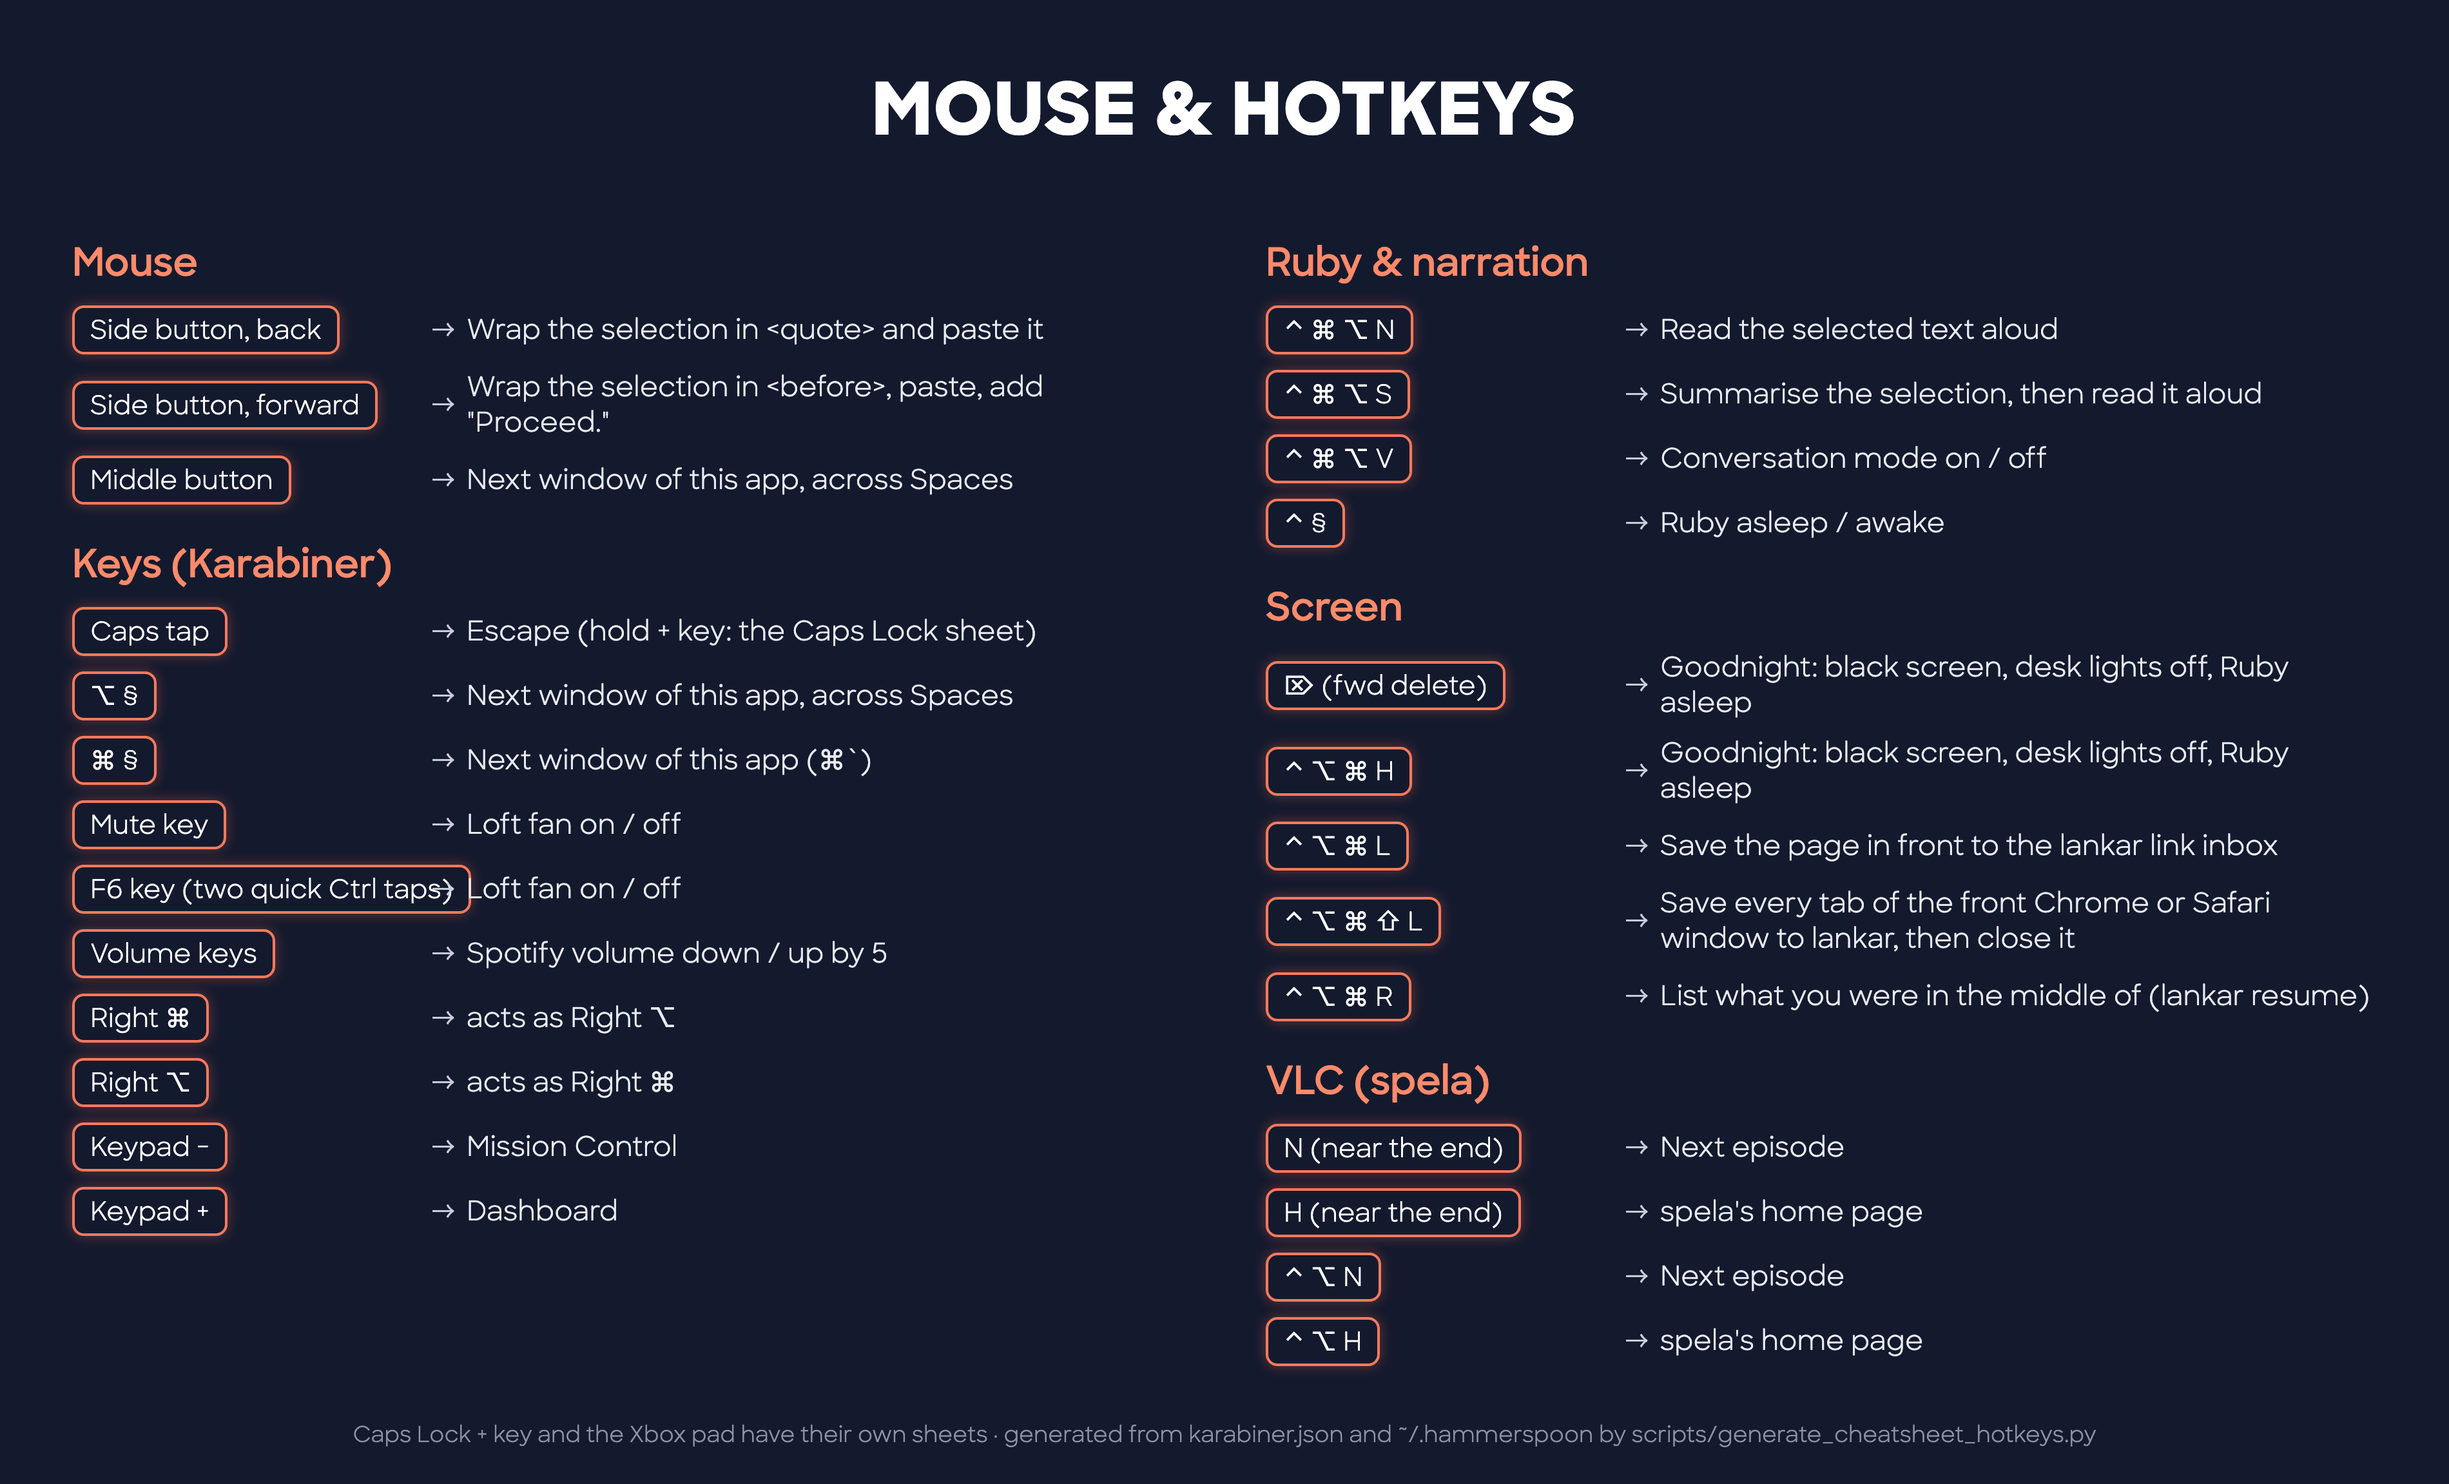
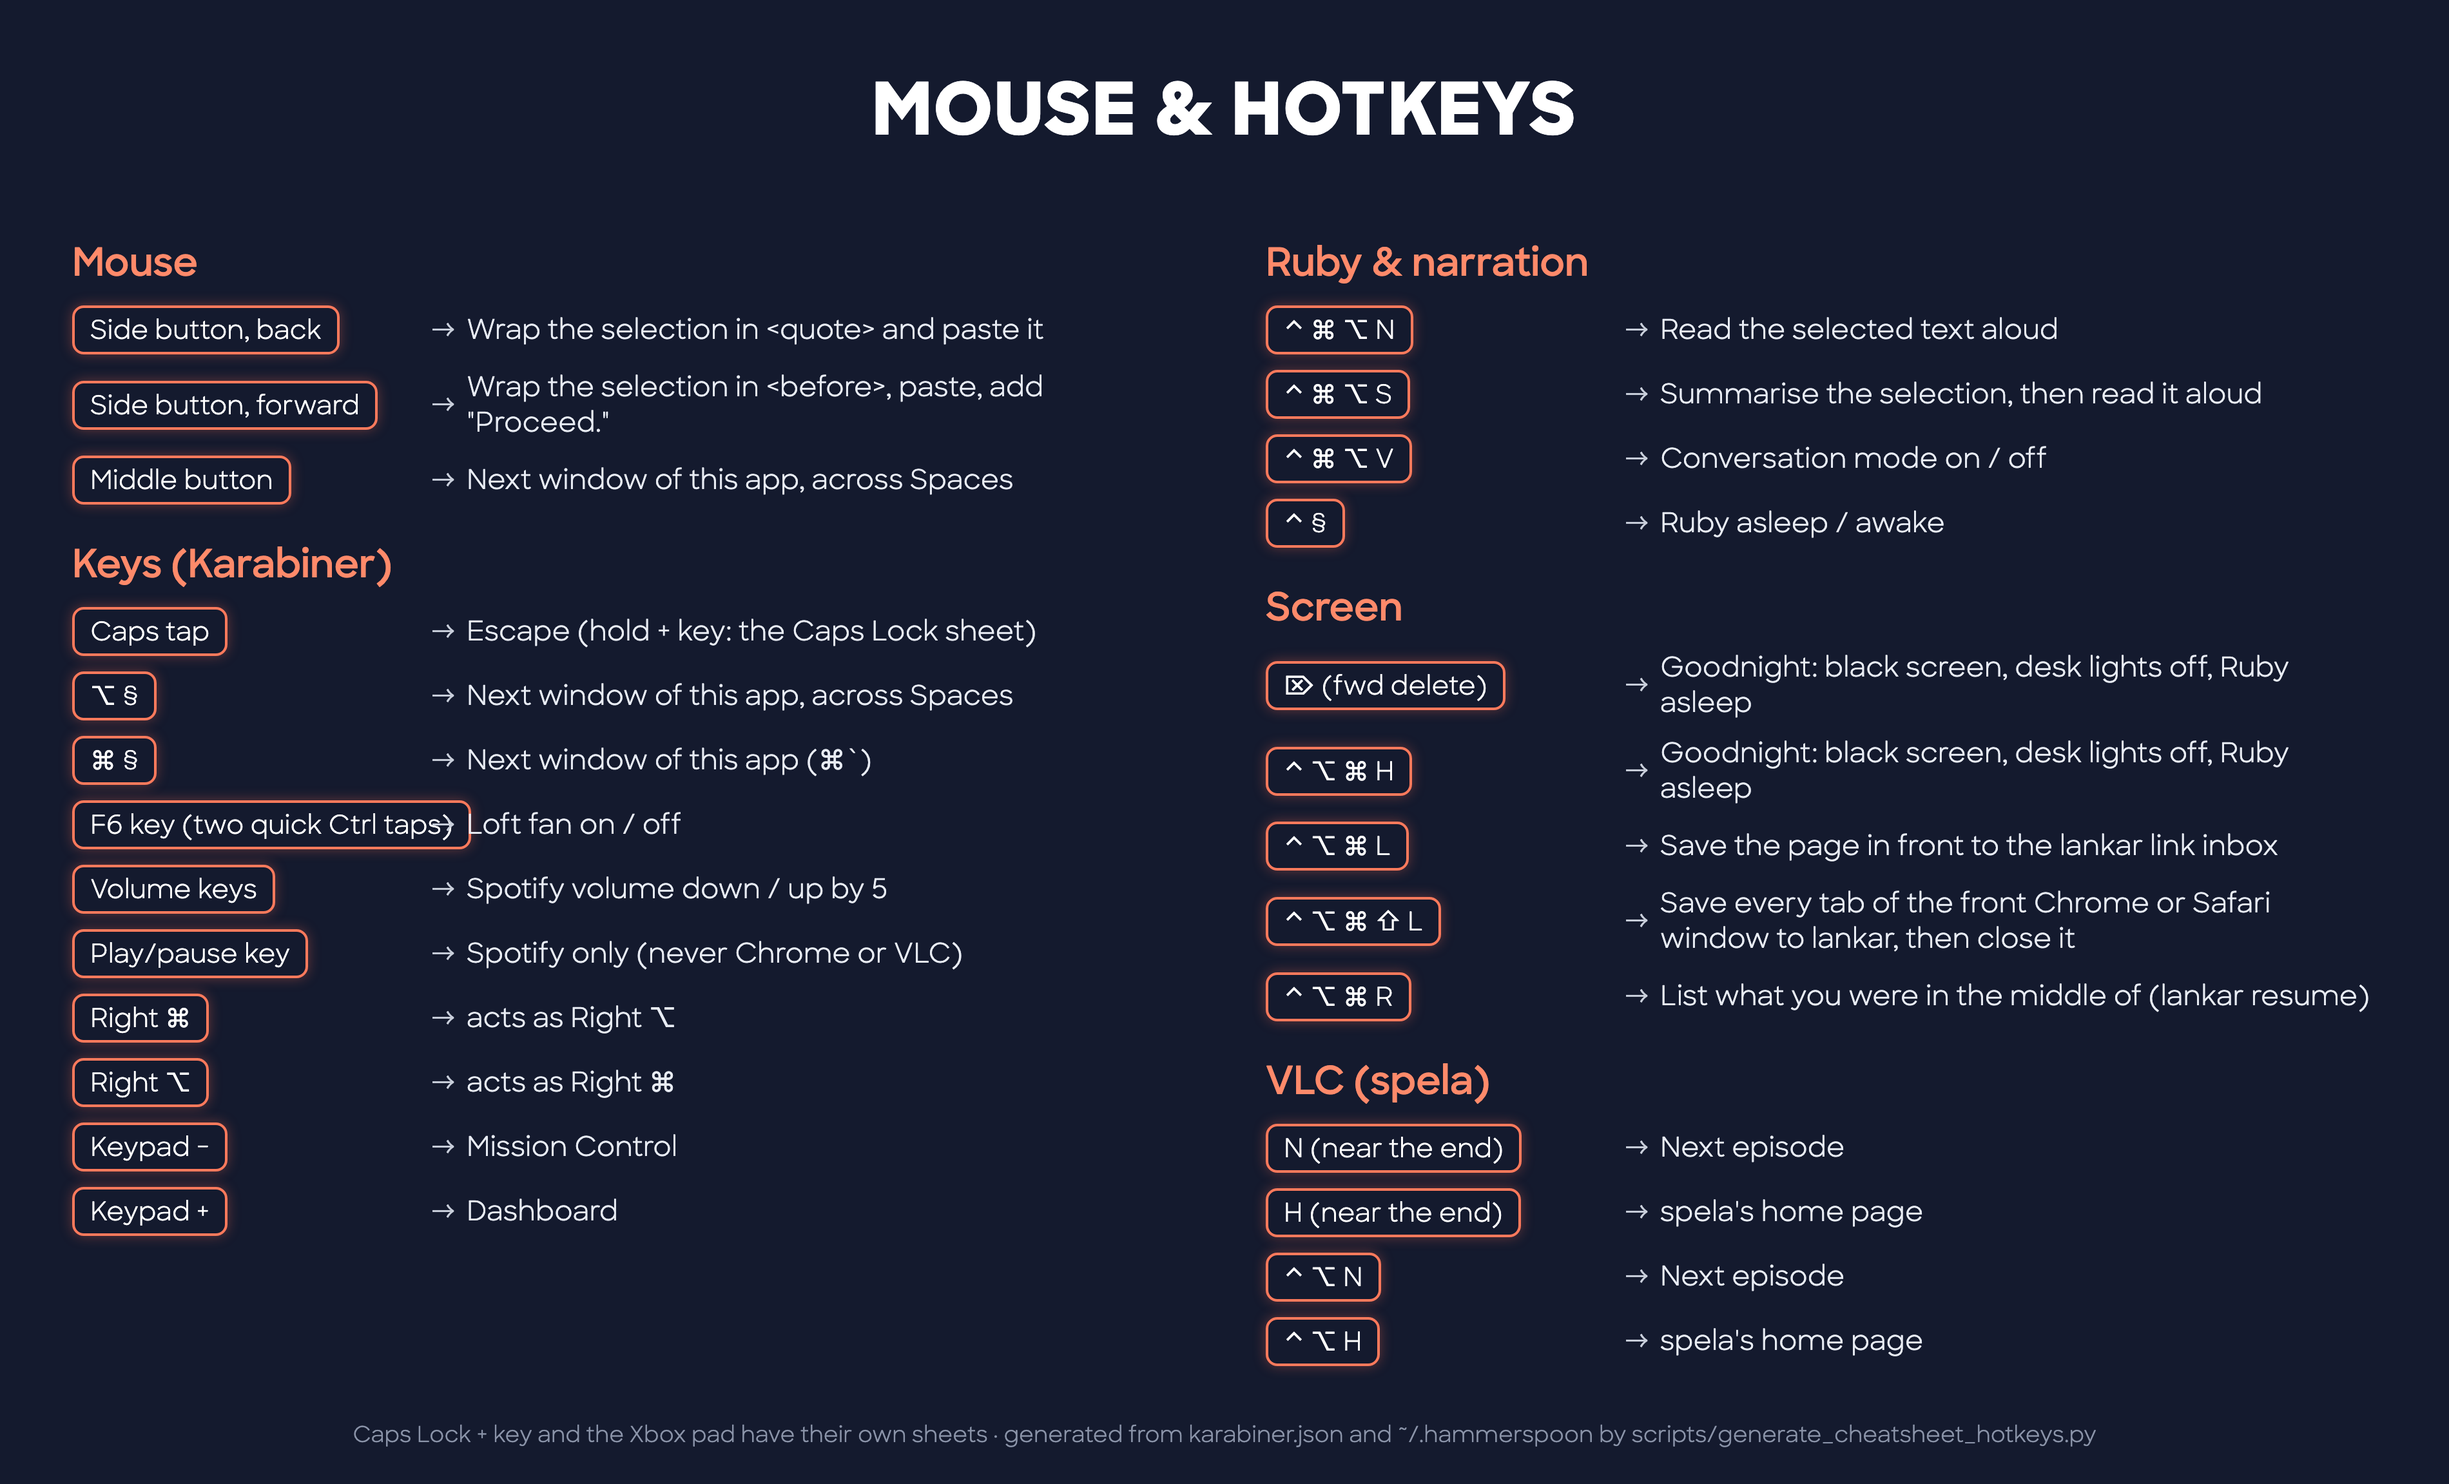
Play/pause key controls only Spotify

Changed region(s): [[0.0311, 0.5241, 0.3726, 0.6782]]

diff --git a/scripts/generate_cheatsheet_hotkeys.py b/scripts/generate_cheatsheet_hotkeys.py
@@ -78,6 +78,9 @@ def karabiner_rows():
         if desc.startswith("Spotify volume"):
             keys.append(("Volume keys", "Spotify volume down / up by 5"))
             continue
+        if desc.startswith("Spotify play/pause"):
+            keys.append(("Play/pause key", "Spotify only (never Chrome or VLC)"))
+            continue
         if desc.startswith("Xbox"):
             continue  # its own sheet
         for m in rule["manipulators"]:

diff --git a/CLAUDE.md b/CLAUDE.md
@@ -237,7 +237,7 @@ Method: EventViewer needs Input Monitoring enabled by hand (System Settings → 
 
 | Key | Karabiner sees | Bindable |
 |---|---|---|
-| Play/pause, mute, volume down, volume up | `consumer_key_code` `play_or_pause`, `mute`, `volume_decrement`, `volume_increment` | volume down/up: yes, bound to Spotify (works); mute: a rule never fired (see below); play/pause: untested |
+| Play/pause, mute, volume down, volume up | `consumer_key_code` `play_or_pause`, `mute`, `volume_decrement`, `volume_increment` | volume down/up: yes, bound to Spotify (works); mute: a rule never fired (see below); play/pause: bound to Spotify only (`spotify-playpause`) |
 | Screenshot | Cmd+Shift+4 chord | only as that chord |
 | Emoji | Cmd+Ctrl+Space chord | only as that chord (also fires on a hand-typed chord) |
 | F6 (dictation icon) | two bare left Ctrl taps, about 75 ms apart | yes, as a double tap within 250 ms (in use, works) |
